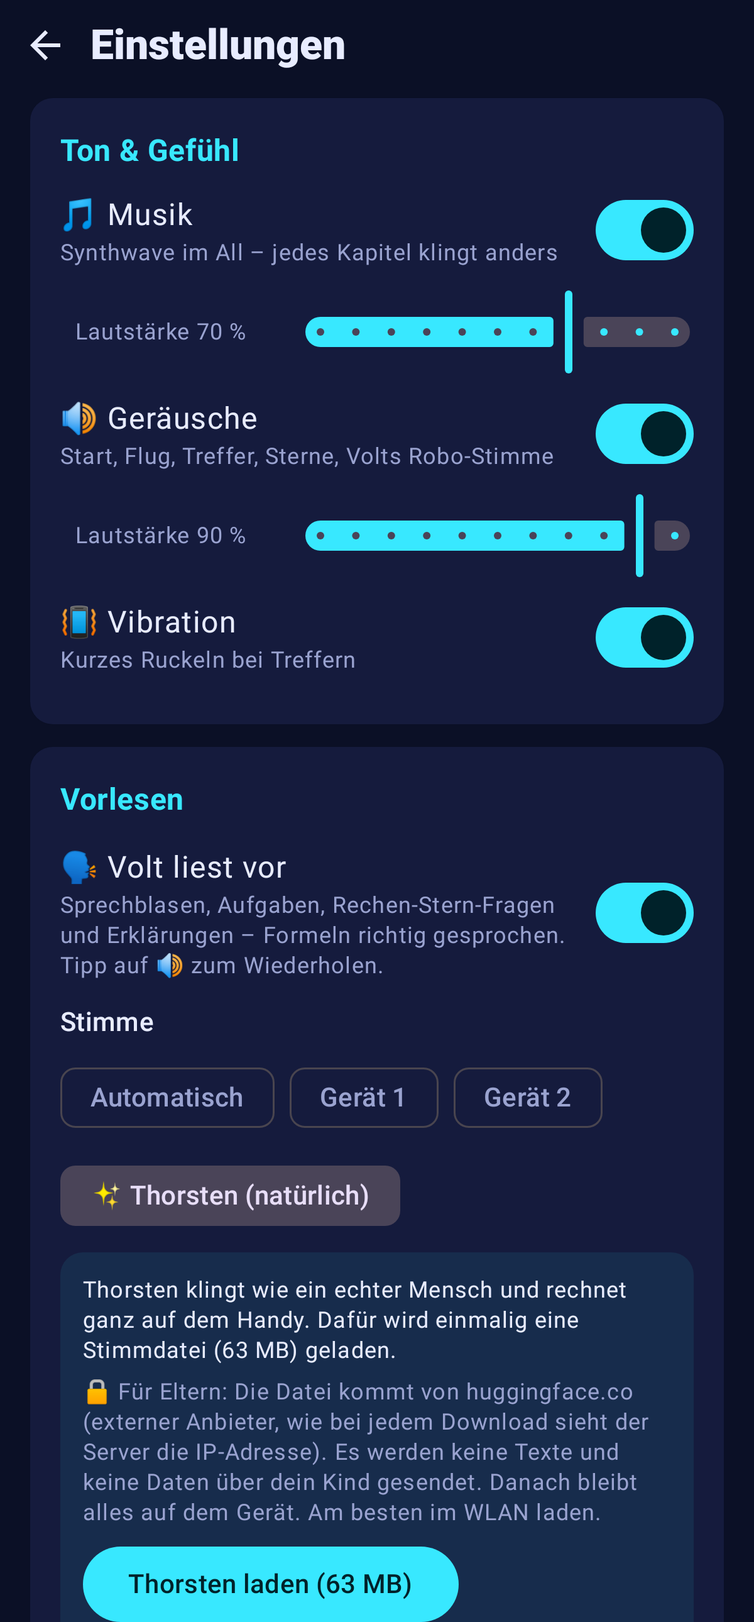
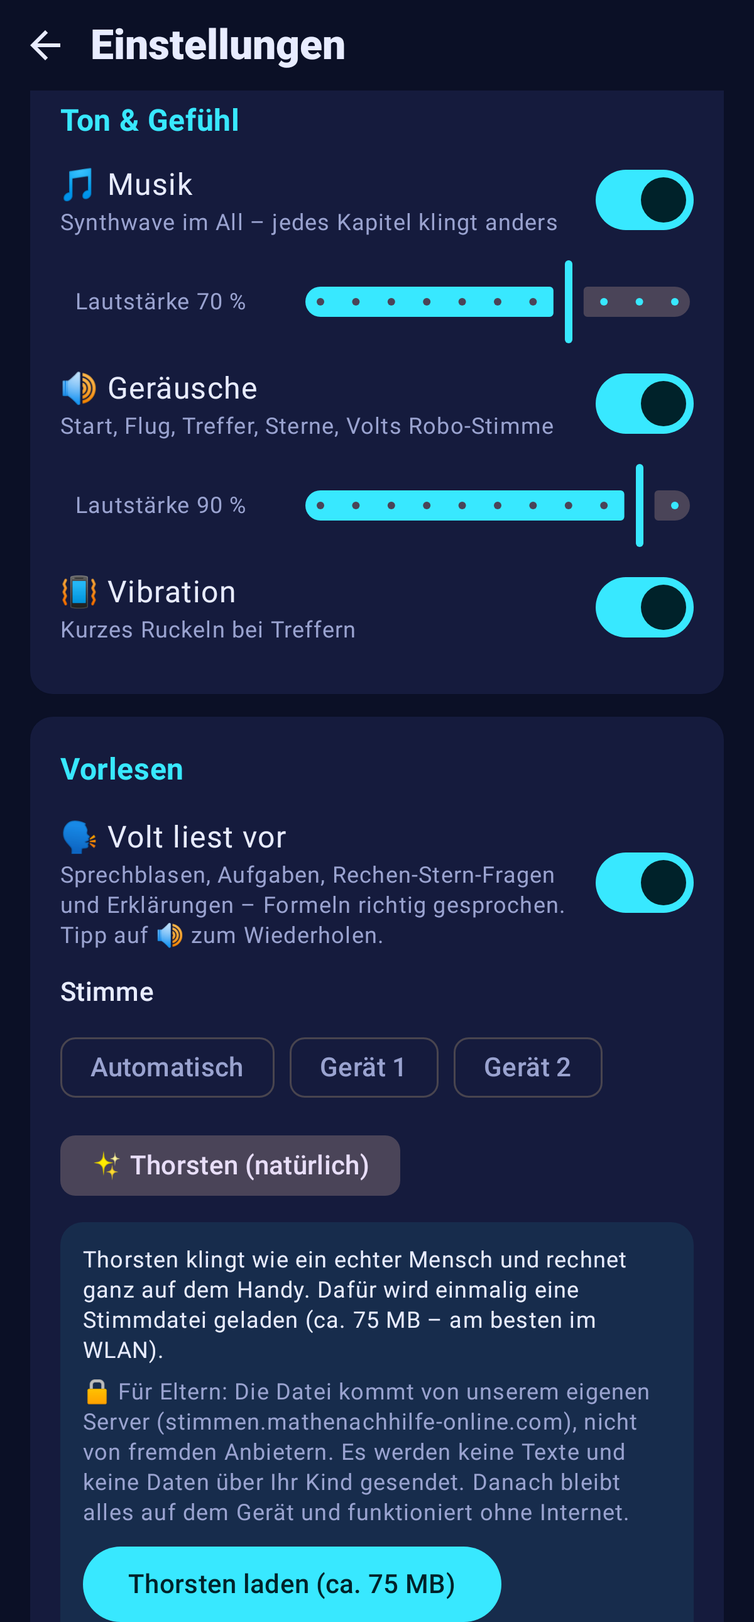
Kurvenflug 2.1.0: Thorsten vom eigenen Server, Android mit ONNX Runtime
Claude-Session: https://claude.ai/code/session_015vg1TniCB6sLGd2dNSJdge

Changed region(s): [[0.0617, 0.4651, 0.8633, 1.0], [0.0617, 0.062, 0.925, 0.4341], [0.7708, 0.5271, 0.925, 0.5891]]

diff --git a/kurvenflug/shared/src/androidMain/kotlin/de/kurvenflug/app/ui/fx/AndroidReader.kt b/kurvenflug/shared/src/androidMain/kotlin/de/kurvenflug/app/ui/fx/AndroidReader.kt
@@ -10,13 +10,14 @@ import android.speech.tts.UtteranceProgressListener
 import androidx.compose.runtime.getValue
 import androidx.compose.runtime.mutableStateOf
 import androidx.compose.runtime.setValue
-import com.k2fsa.sherpa.onnx.GenerationConfig
-import com.k2fsa.sherpa.onnx.OfflineTts
-import com.k2fsa.sherpa.onnx.OfflineTtsConfig
-import com.k2fsa.sherpa.onnx.OfflineTtsModelConfig
-import com.k2fsa.sherpa.onnx.OfflineTtsVitsModelConfig
+import ai.onnxruntime.OnnxTensor
+import ai.onnxruntime.OrtEnvironment
+import ai.onnxruntime.OrtSession
 import de.kurvenflug.core.model.Lautschrift
 import de.kurvenflug.core.model.Speech
+import de.kurvenflug.core.model.VoicePack
+import java.nio.FloatBuffer
+import java.nio.LongBuffer
 import java.io.File
 import java.net.HttpURLConnection
 import java.net.URL
@@ -28,17 +29,17 @@ import java.util.concurrent.atomic.AtomicInteger
 /**
  * Volt liest vor (Android). Zwei Stimmen:
  *  - die Sprachausgabe des Geräts (nur deutsche Stimmen, die ohne Internet sprechen – es geht kein Text ins Netz),
- *  - „Thorsten“: natürliche Piper-Stimme, rechnet ganz auf dem Gerät (sherpa-onnx). Die große Stimmdatei wird nur auf Wunsch
- *    einmal geladen (von huggingface.co, per Prüfsumme kontrolliert). Die Laute kommen aus der mitgelieferten Lautschrift
- *    (assets/stimme) – kein espeak-ng (GPL) in der App. Kennt die Lautschrift ein Wort nicht, liest diesen Text die Gerätestimme.
- * Übernommen aus Raumlicht (gleicher Weg, gleiche Stimmdatei).
+ *  - „Thorsten“: natürliche Piper-Stimme, rechnet ganz auf dem Gerät (ONNX Runtime, wie die WebApp). Die große Stimmdatei wird nur
+ *    auf Wunsch einmal von unserem eigenen Server geladen ([VoicePack], per Prüfsumme kontrolliert). Die Laute kommen aus der
+ *    mitgelieferten Lautschrift (assets/stimme) – kein espeak-ng (GPL) in der App. Kennt die Lautschrift ein Wort nicht,
+ *    liest diesen Text die Gerätestimme.
  */
 class AndroidReader(context: Context, override val canLoadPack: Boolean) : Reader {
     private val ctx = context.applicationContext
     private val main = android.os.Handler(android.os.Looper.getMainLooper())
 
     override var voices by mutableStateOf(emptyList<VoiceChoice>()); private set
-    override var pack by mutableStateOf<PackState>(if (Pack.installed(ctx)) PackState.Ready else PackState.Missing); private set
+    override var pack by mutableStateOf<PackState>(if (Pack.installed(ctx)) PackState.Ready else { Pack.dropOld(ctx); PackState.Missing }); private set
     override var speaking by mutableStateOf(false); private set
 
     private var wanted = ""
@@ -90,7 +91,7 @@ class AndroidReader(context: Context, override val canLoadPack: Boolean) : Reade
         if (!used) { used = true; tts }
         if (natural()) {
             val laute = sounds?.of(clean)
-            if (engine != null && laute != null) { runCatching { tts.stop() }; sayNatural(clean, laute); return }
+            if (engine != null && laute != null) { runCatching { tts.stop() }; sayNatural(laute); return }
             if (engine == null) loadEngine()
         }
         stopNatural(); sayDevice(clean)
@@ -102,10 +103,12 @@ class AndroidReader(context: Context, override val canLoadPack: Boolean) : Reade
     // ------------------------------------------------------------------ Thorsten
     private val worker = Executors.newSingleThreadExecutor { Thread(it, "volt-stimme").apply { isDaemon = true } }
     private val turn = AtomicInteger(0)
-    @Volatile private var engine: OfflineTts? = null
+    @Volatile private var engine: OrtSession? = null
     @Volatile private var sounds: Lautschrift? = null
+    @Volatile private var tokens: Map<Int, Int> = emptyMap()
     @Volatile private var loading = false
     private var track: AudioTrack? = null
+    private val env by lazy { OrtEnvironment.getEnvironment() }
 
     private fun loadEngine() {
         if (engine != null || loading || !Pack.installed(ctx)) return
@@ -114,9 +117,10 @@ class AndroidReader(context: Context, override val canLoadPack: Boolean) : Reade
             runCatching {
                 val dir = Pack.dir(ctx); Pack.unpackHelpers(ctx)
                 sounds = Lautschrift(File(dir, "saetze.tsv").readLines().asSequence(), File(dir, "woerter.tsv").readLines().asSequence())
-                val e = OfflineTts(null, OfflineTtsConfig(model = OfflineTtsModelConfig(
-                    vits = OfflineTtsVitsModelConfig(model = Pack.model(ctx).path, tokens = File(dir, "tokens.txt").path), numThreads = 2, provider = "cpu")))
-                val sr = e.sampleRate()
+                tokens = Lautschrift.tokens(File(dir, "tokens.txt").readLines().asSequence())
+                val opts = OrtSession.SessionOptions().apply { setIntraOpNumThreads(2) }
+                val e = env.createSession(Pack.model(ctx).path, opts)
+                val sr = VoicePack.SAMPLE_RATE
                 val min = AudioTrack.getMinBufferSize(sr, AudioFormat.CHANNEL_OUT_MONO, AudioFormat.ENCODING_PCM_FLOAT)
                 track = AudioTrack.Builder()
                     .setAudioAttributes(AudioAttributes.Builder().setUsage(AudioAttributes.USAGE_GAME).setContentType(AudioAttributes.CONTENT_TYPE_SPEECH).build())
@@ -128,7 +132,22 @@ class AndroidReader(context: Context, override val canLoadPack: Boolean) : Reade
         }
     }
 
-    private fun sayNatural(clean: String, laute: List<String>) {
+    /** Ein Satz Laute → Klang (Piper: input, input_lengths, scales) */
+    private fun synth(e: OrtSession, sentence: String): FloatArray {
+        val ids = Lautschrift.ids(sentence, tokens).map { it.toLong() }.toLongArray()
+        OnnxTensor.createTensor(env, LongBuffer.wrap(ids), longArrayOf(1, ids.size.toLong())).use { input ->
+            OnnxTensor.createTensor(env, LongBuffer.wrap(longArrayOf(ids.size.toLong())), longArrayOf(1)).use { len ->
+                OnnxTensor.createTensor(env, FloatBuffer.wrap(floatArrayOf(VoicePack.NOISE, 1f / rate, VoicePack.NOISE_W)), longArrayOf(3)).use { scales ->
+                    e.run(mapOf("input" to input, "input_lengths" to len, "scales" to scales)).use { r ->
+                        val fb = (r.get(0) as OnnxTensor).floatBuffer
+                        return FloatArray(fb.remaining()).also { fb.get(it) }
+                    }
+                }
+            }
+        }
+    }
+
+    private fun sayNatural(laute: List<String>) {
         val mine = turn.incrementAndGet()
         runCatching { track?.pause(); track?.flush() }
         worker.execute {
@@ -137,8 +156,12 @@ class AndroidReader(context: Context, override val canLoadPack: Boolean) : Reade
             main.post { speaking = true }
             runCatching {
                 out.play()
-                e.generateWithConfigAndCallback(clean, GenerationConfig(speed = rate, phonemeCodepoints = laute.map { Lautschrift.codepoints(it) }.toTypedArray())) { samples ->
-                    if (mine != turn.get()) 0 else { out.write(samples, 0, samples.size, AudioTrack.WRITE_BLOCKING); 1 }
+                val gap = FloatArray(VoicePack.SAMPLE_RATE * 15 / 100)
+                for (sentence in laute) {
+                    if (mine != turn.get()) break
+                    val samples = synth(e, sentence)
+                    if (mine != turn.get()) break
+                    out.write(samples, 0, samples.size, AudioTrack.WRITE_BLOCKING); out.write(gap, 0, gap.size, AudioTrack.WRITE_BLOCKING)
                 }
                 if (mine == turn.get()) out.stop()
             }
@@ -159,12 +182,12 @@ class AndroidReader(context: Context, override val canLoadPack: Boolean) : Reade
             val part = File(Pack.dir(ctx), Pack.MODEL + ".teil")
             val result = runCatching {
                 Pack.unpackHelpers(ctx)
-                val c = URL(Pack.URL).openConnection() as HttpURLConnection
+                val c = URL(VoicePack.URL).openConnection() as HttpURLConnection
                 c.connectTimeout = 20_000; c.readTimeout = 30_000; c.instanceFollowRedirects = true
                 if (c.responseCode !in 200..299) error("Der Server antwortet mit ${c.responseCode}.")
                 c.inputStream.use { i -> part.outputStream().use { o -> val b = ByteArray(1 shl 16); var done = 0L; var shown = -1
                     while (true) { if (cancelled) error("abgebrochen"); val n = i.read(b); if (n < 0) break; o.write(b, 0, n); done += n
-                        val p = (done * 100 / Pack.SIZE).toInt().coerceIn(0, 99); if (p != shown) { shown = p; main.post { if (pack is PackState.Loading) pack = PackState.Loading(p) } } } } }
+                        val p = (done * 100 / VoicePack.SIZE).toInt().coerceIn(0, 99); if (p != shown) { shown = p; main.post { if (pack is PackState.Loading) pack = PackState.Loading(p) } } } } }
                 if (!Pack.matches(part)) error("Die Datei ist unvollständig oder beschädigt angekommen.")
                 if (!part.renameTo(Pack.model(ctx))) error("Die Datei ließ sich nicht speichern.")
             }
@@ -179,25 +202,24 @@ class AndroidReader(context: Context, override val canLoadPack: Boolean) : Reade
     override fun cancelPack() { cancelled = true }
     override fun removePack() {
         cancelled = true; stopNatural()
-        worker.execute { runCatching { track?.release() }; runCatching { engine?.release() }; track = null; engine = null; sounds = null; Pack.dir(ctx).deleteRecursively() }
+        worker.execute { runCatching { track?.release() }; runCatching { engine?.close() }; track = null; engine = null; sounds = null; Pack.dir(ctx).deleteRecursively() }
         pack = PackState.Missing
     }
 
     fun shutdown() { stop(); if (used) runCatching { tts.shutdown() } }
 
-    /** Das Stimm-Paket „Thorsten“ (dieselbe Datei wie in Raumlicht) */
+    /** Das Stimm-Paket „Thorsten“ auf dem Gerät (Quelle und Prüfsumme: [VoicePack]) */
     object Pack {
         const val MODEL = "de_DE-thorsten-medium.onnx"
-        const val SIZE = 63_201_421L
[1 lines of base64/hex data omitted]
-        const val URL = "https://huggingface.co/csukuangfj/vits-piper-de_DE-thorsten-medium/resolve/main/$MODEL"
         fun dir(ctx: Context) = File(ctx.filesDir, "stimme").also { it.mkdirs() }
         fun model(ctx: Context) = File(dir(ctx), MODEL)
-        fun installed(ctx: Context) = model(ctx).let { it.isFile && it.length() == SIZE }
+        /** Ältere Stimmdatei (0.27.0/2.0.0 luden sie noch von huggingface.co) wegräumen – die neue kommt vom eigenen Server */
+        fun dropOld(ctx: Context) { File(ctx.filesDir, "stimme/$MODEL").takeIf { it.isFile && it.length() != VoicePack.SIZE }?.delete() }
+        fun installed(ctx: Context) = model(ctx).let { it.isFile && it.length() == VoicePack.SIZE }
         fun matches(f: File): Boolean {
-            if (!f.isFile || f.length() != SIZE) return false
+            if (!f.isFile || f.length() != VoicePack.SIZE) return false
             val md = MessageDigest.getInstance("SHA-256"); f.inputStream().use { i -> val b = ByteArray(1 shl 16); while (true) { val n = i.read(b); if (n < 0) break; md.update(b, 0, n) } }
-            return md.digest().joinToString("") { "%02x".format(it) } == SHA256
+            return md.digest().joinToString("") { "%02x".format(it) } == VoicePack.SHA256
         }
         /** Zeichenliste und Lautschrift aus der App ins Stimm-Verzeichnis (nach jedem Update neu, damit neue Texte drin sind) */
         fun unpackHelpers(ctx: Context) {

diff --git a/kurvenflug/shared/src/commonMain/kotlin/de/kurvenflug/app/ui/settings/SettingsScreen.kt b/kurvenflug/shared/src/commonMain/kotlin/de/kurvenflug/app/ui/settings/SettingsScreen.kt
@@ -167,7 +167,7 @@ private fun NaturalVoiceBox(reader: de.kurvenflug.app.ui.fx.Reader, web: Boolean
             de.kurvenflug.app.ui.fx.PackState.Ready -> {
                 Text("✓ Thorsten ist geladen und spricht ohne Internet.", style = MaterialTheme.typography.bodySmall, color = Q.Green)
                 Text("Unbekannte Wörter (z. B. Spielernamen) liest die normale Stimme.", style = MaterialTheme.typography.bodySmall, color = Q.Muted)
-                TextButton(onClick = { reader.removePack() }, contentPadding = PaddingValues(0.dp)) { Text("Stimme entfernen ($mb MB freigeben)", color = Q.Muted) }
+                TextButton(onClick = { reader.removePack() }, contentPadding = PaddingValues(0.dp)) { Text("Stimme entfernen (Speicher freigeben)", color = Q.Muted) }
             }
             is de.kurvenflug.app.ui.fx.PackState.Loading -> {
                 Text("Lade Thorsten … ${p.percent} %", style = MaterialTheme.typography.bodySmall)
@@ -176,12 +176,11 @@ private fun NaturalVoiceBox(reader: de.kurvenflug.app.ui.fx.Reader, web: Boolean
             }
             else -> {
                 Text("Thorsten klingt wie ein echter Mensch und rechnet ganz auf ${if (web) "deinem Gerät" else "dem Handy"}. " +
-                    "Dafür wird einmalig eine Stimmdatei ($mb MB) geladen.", style = MaterialTheme.typography.bodySmall)
-                Text("🔒 Für Eltern: Die Datei kommt von ${de.kurvenflug.app.ui.fx.Reader.PACK_HOST} (externer Anbieter, wie bei jedem Download sieht der Server die IP-Adresse). " +
-                    "Es werden keine Texte und keine Daten über dein Kind gesendet. Danach bleibt alles ${if (web) "in diesem Browser" else "auf dem Gerät"}. " +
-                    "Am besten im WLAN laden.", style = MaterialTheme.typography.bodySmall, color = Q.Muted)
+                    "Dafür wird einmalig eine Stimmdatei geladen (ca. $mb MB – am besten im WLAN).", style = MaterialTheme.typography.bodySmall)
+                Text("🔒 Für Eltern: Die Datei kommt von unserem eigenen Server (${de.kurvenflug.app.ui.fx.Reader.PACK_HOST}), nicht von fremden Anbietern. " +
+                    "Es werden keine Texte und keine Daten über Ihr Kind gesendet. Danach bleibt alles ${if (web) "in diesem Browser" else "auf dem Gerät"} und funktioniert ohne Internet.", style = MaterialTheme.typography.bodySmall, color = Q.Muted)
                 if (p is de.kurvenflug.app.ui.fx.PackState.Failed) Text("Hat nicht geklappt: ${p.why}", style = MaterialTheme.typography.bodySmall, color = Q.Orange)
-                Button(onClick = { reader.loadPack() }) { Text(if (p is de.kurvenflug.app.ui.fx.PackState.Failed) "Nochmal versuchen" else "Thorsten laden ($mb MB)") }
+                Button(onClick = { reader.loadPack() }) { Text(if (p is de.kurvenflug.app.ui.fx.PackState.Failed) "Nochmal versuchen" else "Thorsten laden (ca. $mb MB)") }
             }
         }
     }
@@ -205,7 +204,7 @@ private const val LICENSES = "Kurvenflug nutzt freie Software. Danke an alle, di
     "Apache License 2.0 (apache.org/licenses/LICENSE-2.0): Kotlin, kotlinx.coroutines, kotlinx.serialization, " +
     "Jetpack Compose und Compose Multiplatform, AndroidX (Activity, Core, Lifecycle, Navigation, Room, Glance, WorkManager, " +
     "Fragment, SavedState, Startup, DataStore), Guava, JSpecify, JetBrains Annotations.\n\n" +
-    "Vorlesen mit „Thorsten“: sherpa-onnx (Apache 2.0) mit ONNX Runtime (MIT), Stimme de_DE-thorsten-medium aus dem Piper-Projekt " +
+    "Vorlesen mit „Thorsten“: ONNX Runtime (MIT), Stimme de_DE-thorsten-medium aus dem Piper-Projekt " +
     "(Stimmdaten von Thorsten Müller, CC0; Modell MIT). Die Lautschrift ist vorab erzeugt – kein espeak-ng in der App.\n\n" +
     "Nur in der Google-Play-Version: Play In-App Updates (Play Core SDK, Nutzungsbedingungen von Google)."
 

diff --git a/kurvenflug/web/src/wasmJsMain/resources/kf.js b/kurvenflug/web/src/wasmJsMain/resources/kf.js
@@ -1,6 +1,6 @@
 // Kurvenflug WebApp – kleine Helfer für Ton, Teilen, Fotos und die Zurück-Taste.
 // Keine Verbindungen nach außen, kein Tracking: alles bleibt im Browser. Einzige Ausnahme, nur auf ausdrücklichen Wunsch:
-// das Stimm-Paket „Thorsten“ fürs Vorlesen kommt einmalig von huggingface.co (siehe unten).
+// das Stimm-Paket „Thorsten“ fürs Vorlesen kommt einmalig von unserem Server stimmen.mathenachhilfe-online.com (siehe unten).
 (function () {
   'use strict';
   var KF = window.KF = {};
@@ -140,7 +140,7 @@
   // ------------------------------------------------------------ Vorlesen
   // a) Stimmen des Browsers: nur deutsche Stimmen, die auf dem Gerät rechnen (localService) – so geht kein Text ins Netz.
   // b) „Thorsten“: natürliche Piper-Stimme, rechnet im Browser (ONNX Runtime Web, MIT-Lizenz). Die Lautschrift kommt fertig aus der App
-  //    (stimme/*.tsv, vorab erzeugt) – kein espeak-ng. Stimmdatei (63 MB) nur auf Wunsch von huggingface.co, per Prüfsumme kontrolliert,
+  //    (stimme/*.tsv, vorab erzeugt) – kein espeak-ng. Stimmdatei nur auf Wunsch von unserem Server (Adresse und Prüfsumme aus der App), geprüft,
   //    danach im Browser-Speicher (Cache „kf-stimme“, auch offline nutzbar, jederzeit entfernbar).
   var synth = window.speechSynthesis || null, speakCb = null;
   function speaking(b) { if (speakCb) try { speakCb(b); } catch (e) {} }
@@ -161,22 +161,22 @@
   };
   KF.hush = function () { if (synth) synth.cancel(); natStop(); speaking(false); };
 
-  var PACK = { url: 'https://huggingface.co/csukuangfj/vits-piper-de_DE-thorsten-medium/resolve/main/de_DE-thorsten-medium.onnx',
[1 lines of base64/hex data omitted]
+  var PACK = { cache: 'kf-stimme', key: 'stimme/thorsten-piper.onnx', old: 'stimme/thorsten.onnx',
     helpers: ['stimme/saetze.tsv', 'stimme/woerter.tsv', 'stimme/tokens.txt', 'ort/ort.wasm.min.mjs', 'ort/ort-wasm-simd-threaded.mjs', 'ort/ort-wasm-simd-threaded.wasm'] };
   function abs(p) { return new URL(p, location.href).href; }
   KF.packHas = function (cb) {
     if (!window.caches) { cb(false); return; }
-    caches.open(PACK.cache).then(function (c) { return c.match(abs(PACK.key)); }).then(function (r) { cb(!!r); }, function () { cb(false); });
+    caches.open(PACK.cache).then(function (c) { c.delete(abs(PACK.old)); return c.match(abs(PACK.key)); }).then(function (r) { cb(!!r); }, function () { cb(false); });
   };
   var packAbort = null;
-  KF.packLoad = function (progress, done) {
+  KF.packLoad = function (url, size, sha, progress, done) {
+    PACK.url = url; PACK.size = size; PACK.sha = sha;
     if (!window.caches || !window.crypto || !crypto.subtle) { done('Dieser Browser kann die Stimme nicht speichern.'); return; }
     packAbort = new AbortController(); var signal = packAbort.signal;
     caches.open(PACK.cache).then(function (c) {
       // erst die kleinen Helfer aus der App (Lautschrift, Rechenkern) – damit Thorsten später auch offline spricht
       return c.addAll(PACK.helpers.map(function (h) { return new Request(abs(h), { cache: 'no-cache' }); })).then(function () {
-        return fetch(PACK.url, { signal: signal, credentials: 'omit', referrerPolicy: 'no-referrer' });
+        return fetch(PACK.url, { signal: signal, credentials: 'omit' });
       }).then(function (r) {
         if (!r.ok || !r.body) throw new Error('Der Server antwortet mit ' + r.status + '.');
         var buf = new Uint8Array(PACK.size), got = 0, shown = -1, rd = r.body.getReader();

diff --git a/kurvenflug/shared/src/commonMain/kotlin/de/kurvenflug/app/ui/fx/Reader.kt b/kurvenflug/shared/src/commonMain/kotlin/de/kurvenflug/app/ui/fx/Reader.kt
@@ -15,7 +15,7 @@ sealed interface PackState {
 
 /**
  * Volt liest vor: Sprechblasen, Aufträge, Rechen-Stern-Fragen und Erklärungen.
- * Android: Sprachausgabe des Geräts bzw. „Thorsten“ (sherpa-onnx). Browser: Stimmen des Browsers bzw. „Thorsten“ (ONNX Runtime Web).
+ * Android: Sprachausgabe des Geräts bzw. „Thorsten“ (ONNX Runtime). Browser: Stimmen des Browsers bzw. „Thorsten“ (ONNX Runtime Web).
  * Beide Wege nutzen dieselbe Aufbereitung ([de.kurvenflug.core.model.Speech]) und dieselbe Lautschrift.
  */
 interface Reader {
@@ -40,9 +40,9 @@ interface Reader {
         const val NATURAL = "thorsten"
         const val NATURAL_LABEL = "Thorsten (natürlich)"
         /** Größe des Stimm-Pakets für den Hinweis vor dem Laden */
-        const val PACK_MB = 63
+        const val PACK_MB = de.kurvenflug.core.model.VoicePack.MB_HINT
         /** Woher das Stimm-Paket kommt (für den Datenschutz-Hinweis) */
-        const val PACK_HOST = "huggingface.co"
+        const val PACK_HOST = de.kurvenflug.core.model.VoicePack.HOST
         const val PROBE = de.kurvenflug.core.model.Speech.PROBE
     }
 }

diff --git a/kurvenflug/app/src/test/java/de/kurvenflug/app/ui/ScreenshotTest.kt b/kurvenflug/app/src/test/java/de/kurvenflug/app/ui/ScreenshotTest.kt
@@ -436,9 +436,9 @@ class ScreenshotTest {
     }
 
     /** Vorlesen: Stimme wählen, Thorsten mit Datenschutz-Hinweis, Tempo, Probe. */
-    @Test fun readAloudSettings() = shot("99_vorlesen", 1500, prepare = { it.onNodeWithText("Thorsten laden (63 MB)").performScrollTo() }) {
+    @Test fun readAloudSettings() = shot("99_vorlesen", 1500, prepare = { it.onNodeWithText("Thorsten laden (ca. 75 MB)").performScrollTo() }) {
         androidx.compose.runtime.CompositionLocalProvider(de.kurvenflug.app.ui.fx.LocalReader provides FakeReader, de.kurvenflug.app.ui.fx.LocalReadAloud provides true) {
-            SettingsScreen(sound = true, onSound = {}, vibration = true, onVibration = {}, autoUpdate = true, onAutoUpdate = {}, installed = "0.27.0",
+            SettingsScreen(sound = true, onSound = {}, vibration = true, onVibration = {}, autoUpdate = true, onAutoUpdate = {}, installed = "2.1.0",
                 update = UpdateState.Idle, onBack = {}, readAloud = true, readVoice = de.kurvenflug.app.ui.fx.Reader.NATURAL)
         }
     }

diff --git a/kurvenflug/core/model/src/commonMain/kotlin/de/kurvenflug/core/model/VoicePack.kt b/kurvenflug/core/model/src/commonMain/kotlin/de/kurvenflug/core/model/VoicePack.kt
@@ -1,0 +1,18 @@
+package de.kurvenflug.core.model
+
+/**
+ * Die gemeinsame Stimme „Thorsten“ (Piper, de_DE-thorsten-medium) auf unserem eigenen Server – für alle Apps gleich (Vorgabe Leitstand).
+ * Android und WebApp laden dieselbe Datei, prüfen dieselbe Prüfsumme und rechnen mit ONNX Runtime.
+ */
+object VoicePack {
+    const val URL = "https://stimmen.mathenachhilfe-online.com/thorsten/de_DE-thorsten-medium.onnx"
+    const val SIZE = 63_201_294L
[1 lines of base64/hex data omitted]
+    const val HOST = "stimmen.mathenachhilfe-online.com"
+    /** Hinweis vor dem Laden (Stimme + Rechenkern im Browser, Vorgabe Leitstand) */
+    const val MB_HINT = 75
+    const val SAMPLE_RATE = 22050
+    /** aus de_DE-thorsten-medium.onnx.json („inference“) */
+    const val NOISE = 0.667f
+    const val NOISE_W = 0.8f
+}

diff --git a/kurvenflug/shared/src/wasmJsMain/kotlin/de/kurvenflug/app/Js.kt b/kurvenflug/shared/src/wasmJsMain/kotlin/de/kurvenflug/app/Js.kt
@@ -27,7 +27,7 @@ internal fun jsOnSpeaking(f: (Boolean) -> Unit): Unit = js("window.KF.onSpeaking
 internal fun jsSay(text: String, name: String, rate: Double): Unit = js("window.KF.say(text, name, rate)")
 internal fun jsHush(): Unit = js("window.KF.hush()")
 internal fun jsPackHas(cb: (Boolean) -> Unit): Unit = js("window.KF.packHas(cb)")
-internal fun jsPackLoad(progress: (Int) -> Unit, done: (String) -> Unit): Unit = js("window.KF.packLoad(progress, done)")
+internal fun jsPackLoad(url: String, size: Double, sha: String, progress: (Int) -> Unit, done: (String) -> Unit): Unit = js("window.KF.packLoad(url, size, sha, progress, done)")
 internal fun jsPackCancel(): Unit = js("window.KF.packCancel()")
 internal fun jsPackRemove(): Unit = js("window.KF.packRemove()")
 internal fun jsNatWarm(): Unit = js("window.KF.natWarm()")

diff --git a/kurvenflug/shared/src/wasmJsMain/kotlin/de/kurvenflug/app/ui/fx/WebReader.kt b/kurvenflug/shared/src/wasmJsMain/kotlin/de/kurvenflug/app/ui/fx/WebReader.kt
@@ -91,7 +91,7 @@ object WebReader : Reader {
         start()
         if (pack is PackState.Loading || pack == PackState.Ready) return
         pack = PackState.Loading(0)
-        jsPackLoad({ p -> if (pack is PackState.Loading) pack = PackState.Loading(p) }) { err ->
+        jsPackLoad(de.kurvenflug.core.model.VoicePack.URL, de.kurvenflug.core.model.VoicePack.SIZE.toDouble(), de.kurvenflug.core.model.VoicePack.SHA256, { p -> if (pack is PackState.Loading) pack = PackState.Loading(p) }) { err ->
             pack = when { err.isEmpty() -> PackState.Ready; err == "abgebrochen" -> PackState.Missing; else -> PackState.Failed(err) }
             if (err.isEmpty() && wanted == Reader.NATURAL) prepareNatural()
         }

diff --git a/kurvenflug/MELDUNG_AN_LEITSTAND.md b/kurvenflug/MELDUNG_AN_LEITSTAND.md
@@ -1,5 +1,16 @@
 # Meldungen an den Leitstand – Kurvenflug WebApp
 
+## 2.1.0 – Thorsten vom gemeinsamen Server · Web = Android
+- Quelle jetzt `stimmen.mathenachhilfe-online.com/thorsten/de_DE-thorsten-medium.onnx`, Größe 63 201 294 Bytes und
+  SHA-256 7e64762d… werden in App und WebApp geprüft (eine Stelle im Code: `core/model/VoicePack.kt`). Hinweis „ca. 75 MB –
+  am besten im WLAN“, Elternhinweis jetzt „eigener Server, keine fremden Anbieter“. Laden nur auf Wunsch, danach offline.
+- **Technik geändert:** Die Server-Datei ist das originale Piper-Modell ohne die Zusatzangaben, die sherpa-onnx verlangt
+  (sherpa bricht ohne sie ab). Deshalb rechnet Android jetzt mit **ONNX Runtime Android** – derselbe Weg wie die WebApp
+  (Laut-Nummern wie Piper, Werte aus der .onnx.json: noise 0,667 / noise_w 0,8, 22 050 Hz). Laut-Liste mit der
+  `phoneme_id_map` der Server-.json verglichen: identisch (152 Laute). sherpa-onnx und JitPack entfallen.
+- Alte Stimmdatei (von huggingface.co, 0.27.0/2.0.0) wird automatisch entfernt; wer sie hatte, lädt einmal neu.
+- Kein espeak-ng (GPL): Lautschrift weiterhin vorab erzeugt und mitgeliefert. versionCode 40.
+
 ## 2.0.0 – neues Versionsschema (Vorgabe Marcel) · Web = Android
 - versionName **2.0.0** (APK, AAB, WebApp, `version.json`, Anzeige in App/WebApp), versionCode läuft weiter: **39**
   (0.27.0 war 38). Inhalt = 0.27.0 (Vorlesen, siehe unten). Ab jetzt: kleine Updates 2.1.0, 2.1.1 …, großes Update 3.0.0.

diff --git a/kurvenflug/README.md b/kurvenflug/README.md
@@ -107,8 +107,9 @@ Live-Rechnung beim Schieben, Rechen-Stern nach dem Treffer, danach der Lösungsw
 Volt liest Sprechblasen, Aufgaben, Rechen-Stern-Fragen und Erklärungen vor (abschaltbar, Stimme und Tempo wählbar, Probe-Taste).
 Formeln und Einheiten werden in Worte übersetzt (`Speech.clean`, gemeinsam für Android und Web: „x² − 2x“ → „x hoch 2 minus 2x“,
 „3 m/s“ → „3 Meter pro Sekunde“). Stimmen: die deutschen Stimmen des Geräts/Browsers (nur solche, die ohne Internet sprechen) oder
-**„Thorsten“** (Piper-Stimme, 63 MB, nur auf Wunsch von huggingface.co geladen, per SHA-256 geprüft). Android rechnet Thorsten mit
-sherpa-onnx (wie Raumlicht), die WebApp mit ONNX Runtime Web (`web/.../resources/ort`). Die Lautschrift liegt fertig in `voice/stimme`
+**„Thorsten“** (Piper-Stimme, gemeinsame Datei aller Apps auf `stimmen.mathenachhilfe-online.com`, nur auf Wunsch geladen, per SHA-256
+geprüft, `core/model/VoicePack.kt`). Android rechnet Thorsten mit ONNX Runtime Android, die WebApp mit ONNX Runtime Web
+(`web/.../resources/ort`) – gleiche Eingabe (Laut-Nummern aus `Lautschrift.ids`, wie Piper). Die Lautschrift liegt fertig in `voice/stimme`
 (erzeugt mit `tools/stimme/lautschrift.py` aus `build/sprechtexte.txt` des `SpeechDumpTest`) – kein espeak-ng (GPL) in App oder WebApp.
 `VoiceDataTest` meldet, wenn neue Texte Wörter ohne Lautschrift enthalten. Die Play-Fassung (ohne Internet) bietet nur die Gerätestimmen.
 

diff --git a/kurvenflug/CHANGELOG.md b/kurvenflug/CHANGELOG.md
@@ -3,6 +3,12 @@
 Kurz und verständlich für Schüler und Eltern. Der Abschnitt der aktuellen Version erscheint automatisch
 im GitHub-Release und in der App unter „App-Update“.
 
+## 2.1.0 – 🔒 Thorsten-Stimme von unserem eigenen Server
+- Die natürliche Stimme „Thorsten“ kommt jetzt von unserem eigenen Server (stimmen.mathenachhilfe-online.com) statt von
+  einem fremden Anbieter. Wie bisher nur, wenn man sie ausdrücklich lädt (ca. 75 MB, am besten im WLAN), mit Prüfsumme;
+  danach spricht Thorsten ohne Internet. Wer Thorsten schon geladen hatte, lädt ihn einmal neu.
+- Auf Android rechnet Thorsten jetzt mit derselben Technik wie im Browser – die App wird dadurch etwas kleiner.
+
 ## 2.0.0 – 🚀 Kurvenflug 2
 - **Neue Versionsnummer**: Mit Vorlesen, eigener Musik, Theorie-Knopf und Pro ist Kurvenflug groß geworden – deshalb jetzt
   Version 2. Kleine Verbesserungen heißen ab jetzt 2.1, 2.2 …, das nächste große Update wird 3.0. Am Spielstand ändert sich
